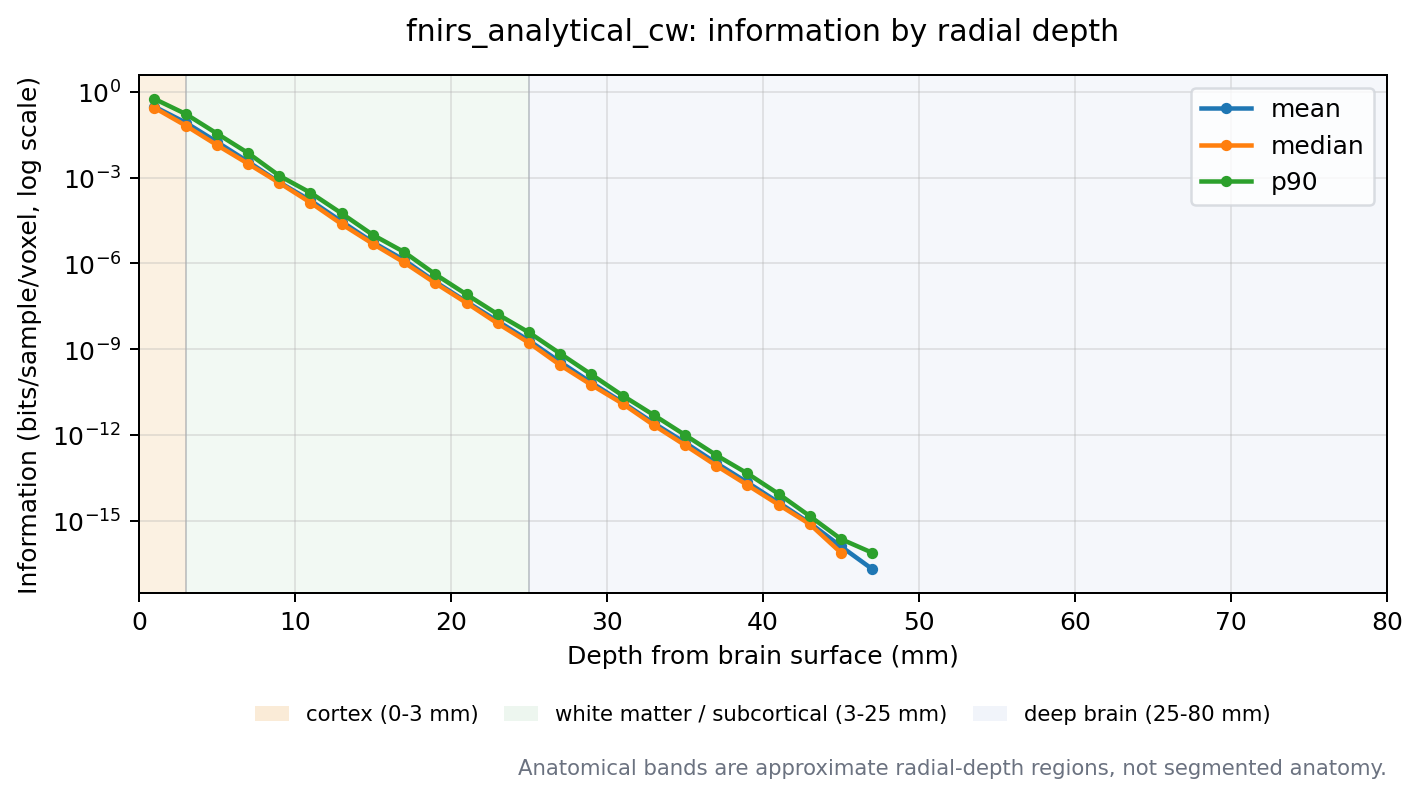
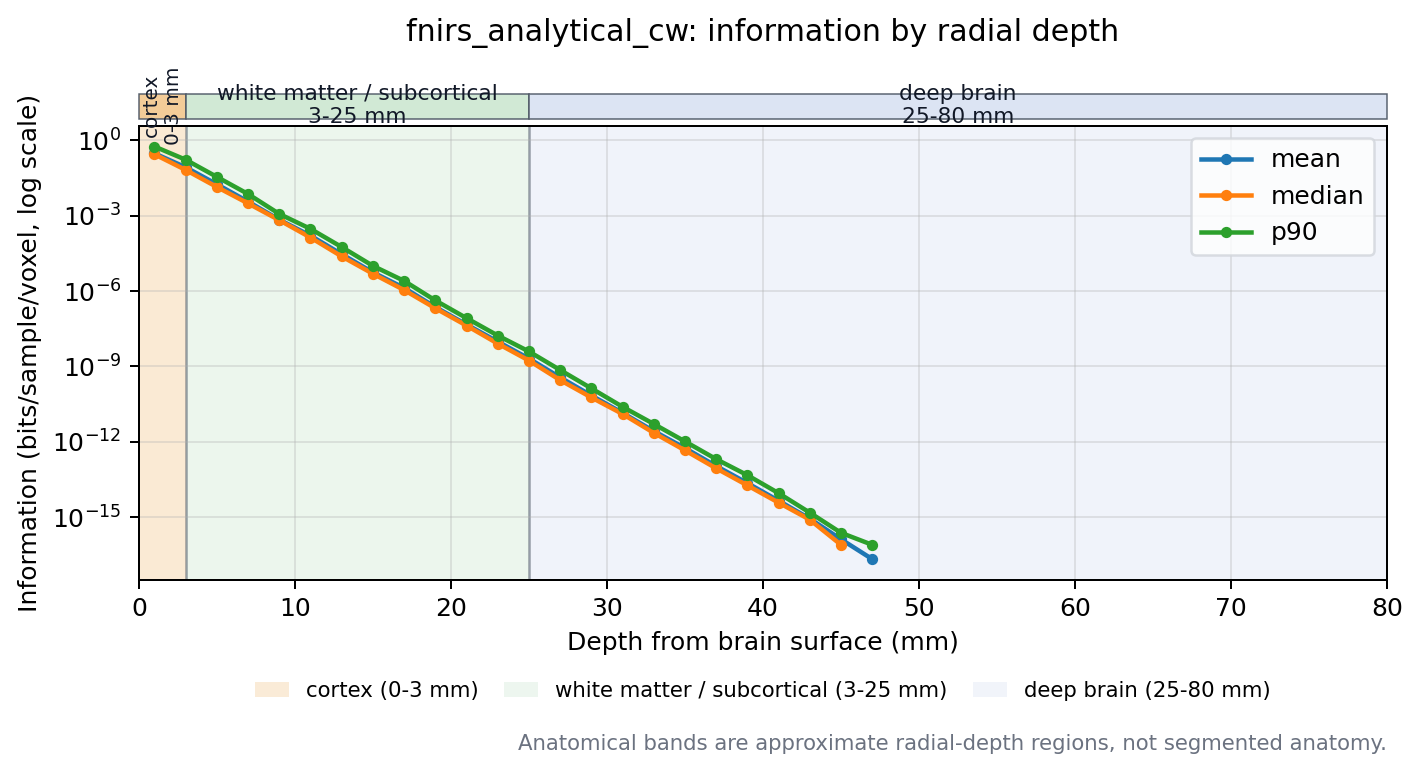
Make depth anatomy bands visible

diff --git a/compute_information_maps.py b/compute_information_maps.py
@@ -26,7 +26,7 @@ import json
 from pathlib import Path
 
 import matplotlib.pyplot as plt
-from matplotlib.patches import Patch
+from matplotlib.patches import Patch, Rectangle
 import numpy as np
 from scipy.linalg import cho_factor, cho_solve
 
@@ -279,7 +279,7 @@ def plot_depth_profile(name: str, profile: dict[str, np.ndarray]) -> None:
             ax.set_ylabel("Information (bits/sample/voxel)")
 
         ax.set_xlabel("Depth from brain surface (mm)")
-        ax.set_title(f"{name}: information by radial depth", pad=14)
+        ax.set_title(f"{name}: information by radial depth", pad=34)
         ax.set_xlim(0, BRAIN_RADIUS)
         ax.grid(True, alpha=0.3, which="both")
         add_plot_legends(ax)
@@ -304,15 +304,46 @@ def anatomy_band_handles() -> list[Patch]:
 
 def add_anatomy_depth_bands(ax) -> None:
     """Add approximate radial-depth anatomy bands behind the data."""
+    xaxis_transform = ax.get_xaxis_transform()
     for band in ANATOMICAL_DEPTH_BANDS:
         start = band["start_mm"]
         end = band["end_mm"]
-        ax.axvspan(start, end, color=band["color"], alpha=0.25, lw=0, zorder=0)
-        ax.axvline(end, color="#6b7280", linewidth=0.8, alpha=0.35, zorder=1)
+        width = end - start
+        ax.axvspan(start, end, color=band["color"], alpha=0.38, lw=0, zorder=0)
+        ax.axvline(end, color="#4b5563", linewidth=1.0, alpha=0.55, zorder=1)
+        ax.add_patch(
+            Rectangle(
+                (start, 1.015),
+                width,
+                0.055,
+                transform=xaxis_transform,
+                facecolor=band["color"],
+                edgecolor="#4b5563",
+                linewidth=0.6,
+                alpha=0.92,
+                clip_on=False,
+                zorder=5,
+            )
+        )
+
+        label = f"{band['label']}\n{start:g}-{end:g} mm"
+        ax.text(
+            start + width / 2,
+            1.045,
+            label,
+            transform=xaxis_transform,
+            ha="center",
+            va="center",
+            rotation=90 if width < 8 else 0,
+            fontsize=8.0 if width < 8 else 8.7,
+            color="#111827",
+            clip_on=False,
+            zorder=6,
+        )
 
     ax.text(
         1.0,
-        -0.32,
+        -0.34,
         "Anatomical bands are approximate radial-depth regions, not segmented anatomy.",
         transform=ax.transAxes,
         ha="right",
@@ -381,7 +412,7 @@ def plot_combined_depth_profiles(paths: list[Path], scaling: str) -> None:
             ax.set_ylabel("Mean information (bits/sample/voxel)")
 
         ax.set_xlabel("Depth from brain surface (mm)")
-        ax.set_title(f"Posterior information by radial depth ({scaling} scaling)", pad=14)
+        ax.set_title(f"Posterior information by radial depth ({scaling} scaling)", pad=34)
         ax.set_xlim(0, BRAIN_RADIUS)
         ax.grid(True, alpha=0.3, which="both")
         add_plot_legends(ax)
